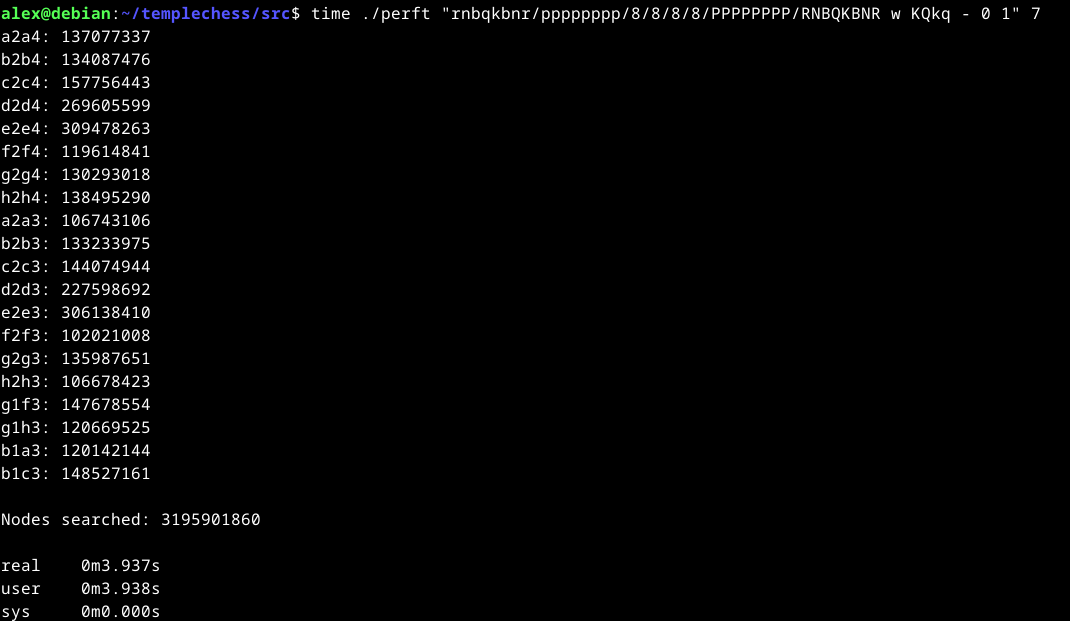
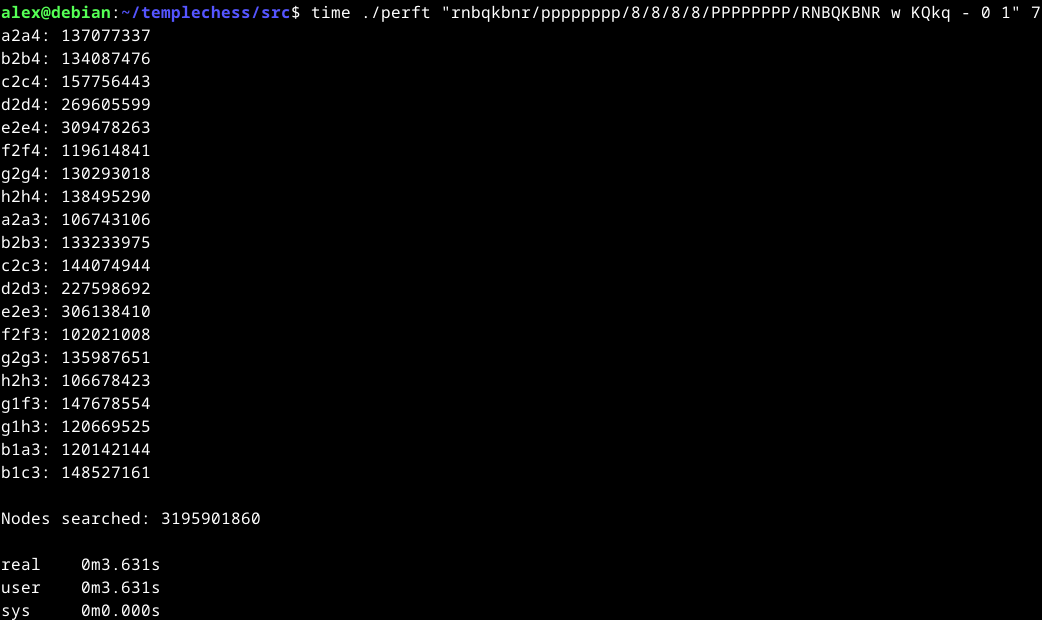
Improved ChessBoardAttacked fn

diff --git a/src/ChessBoard.c b/src/ChessBoard.c
@@ -513,15 +513,17 @@ BitBoard ChessBoardPinned(LookupTable l, ChessBoard *cb)
 
 BitBoard ChessBoardAttacked(LookupTable l, ChessBoard *cb)
 {
-  BitBoard attacked, b;
   BitBoard occupancies = ChessBoardAll(cb) & ~ChessBoardOur(cb, King);
-
-  attacked = PAWN_ATTACKS(ChessBoardTheir(cb, Pawn), !ChessBoardColor(cb));
-  b = ChessBoardThem(cb) & ~ChessBoardTheir(cb, Pawn);
-  while (b)
-  {
-    Square s = BitBoardPop(&b);
-    attacked |= LookupTableAttacks(l, s, ChessBoardSquare(cb, s), occupancies);
-  }
+  BitBoard attacked = PAWN_ATTACKS(ChessBoardTheir(cb, Pawn), !ChessBoardColor(cb));
+  BitBoard b = ChessBoardTheir(cb, Knight);
+  while (b) attacked |= LookupTableAttacks(l, BitBoardPop(&b), Knight, occupancies);
+  b = ChessBoardTheir(cb, Bishop);
+  while (b) attacked |= LookupTableAttacks(l, BitBoardPop(&b), Bishop, occupancies);
+  b = ChessBoardTheir(cb, Rook);
+  while (b) attacked |= LookupTableAttacks(l, BitBoardPop(&b), Rook, occupancies);
+  b = ChessBoardTheir(cb, Queen);
+  while (b) attacked |= LookupTableAttacks(l, BitBoardPop(&b), Queen, occupancies);
+  b = ChessBoardTheir(cb, King);
+  while (b) attacked |= LookupTableAttacks(l, BitBoardPop(&b), King, occupancies);
   return attacked;
 }

diff --git a/README.md b/README.md
@@ -1,6 +1,6 @@
 # templechess
 
-This is an open source chess move generator written in C. The goal of the project is to count the legal number of moves branching from any given chess position as fast as possible on a CPU. It's currently single threaded and doesn't have a transposition table. With my Intel i5-8400 (Max 4Ghz), it completes perft(7) in ~4s which equates to ~800M moves per second.
+This is an open source chess move generator written in C. The goal of the project is to count the legal number of moves branching from any given chess position as fast as possible on a CPU. It's currently single threaded and doesn't have a transposition table. With my Intel i5-8400 (Max 4Ghz), it completes perft(7) in ~3.6s which equates to ~880M moves per second.
 
 ## Compilation
 
